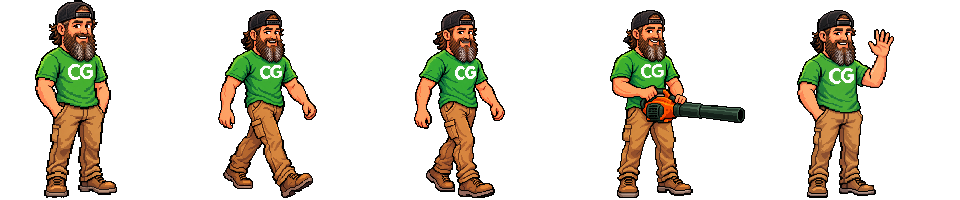
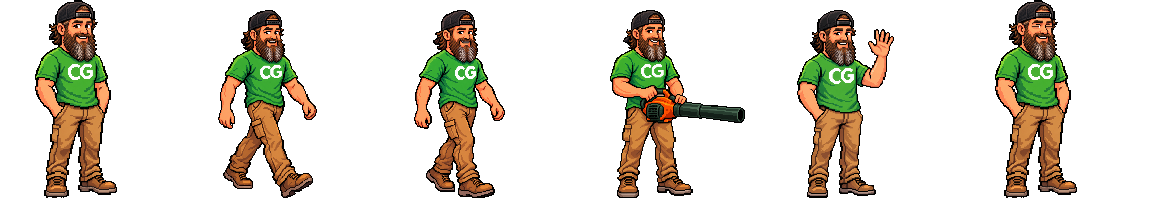
Refine Chris idle motion and build fuller leaf piles

diff --git a/index.html b/index.html
@@ -167,26 +167,28 @@
   .pet-body { display: block; position: relative; width: 100%; height: 100%; transform-origin: 50% 91%; }
   .pet-wrap.face-left .pet-body { scale: -1 1; }
   .pet-inner { display: block; width: 100%; height: 100%; transform-origin: 50% 91%; animation: pet-breathe 2.8s ease-in-out infinite; }
-  /* Five connected limb poses: idle, two opposite strides, blower, wave.
+  /* Six connected poses: idle, two rightward walk frames, blower, wave, blink.
      The art is larger than the hit area so the blower can extend past Chris. */
   .pet-visual { position: absolute; left: -34px; top: 0; width: 192px; height: 200px;
     transform: scale(var(--sprite-scale)); transform-origin: 34px 0; pointer-events: none; }
   .pet-sprite { display: block; width: 192px; height: 200px;
-    background: url("media/pet-chris-poses.png") 0 0 / 960px 200px no-repeat;
+    background: url("media/pet-chris-poses.png") 0 0 / 1152px 200px no-repeat;
     image-rendering: pixelated; pointer-events: none; }
   .pet-wrap.walking .pet-inner { animation: pet-walk .34s ease-in-out infinite alternate; }
   .pet-wrap.reacting .pet-inner { animation: pet-wave .62s cubic-bezier(.2,.8,.2,1) both; }
   .pet-wrap.cheering .pet-inner { animation: pet-cheer .72s cubic-bezier(.2,.8,.2,1) both; }
   .pet-wrap.clearing .pet-inner { animation: pet-work .2s ease-in-out infinite alternate; }
   .pet-wrap.doze .pet-inner { animation: pet-doze 3.4s ease-in-out infinite; }
+  .pet-wrap.idle-shift .pet-inner { animation: pet-shift .95s ease-in-out both; }
   .pet-wrap.dragging .pet-inner { animation: none; transform: rotate(var(--drag-tilt, 0deg)) scale(1.04); }
   .pet-wrap.dragging .pet-shadow, .pet-wrap.cheering .pet-shadow { transform: scale(.65); opacity: .45; }
-  @keyframes pet-breathe { 0%,100% { transform: translateY(0) scale(1); } 50% { transform: translateY(-2px) scale(1.008,.992); } }
+  @keyframes pet-breathe { 0%,100% { transform: scale(1); } 50% { transform: scale(1.006,1.003); } }
+  @keyframes pet-shift { 0%,100% { transform: none; } 45% { transform: rotate(1.6deg) translateX(2px); } }
   @keyframes pet-walk { from { transform: translateY(0) rotate(-2.5deg) scale(1.02,.98); } to { transform: translateY(-5px) rotate(2.5deg) scale(.99,1.01); } }
   @keyframes pet-wave { 0% { transform: rotate(0) scale(1); } 28% { transform: translateY(-9px) rotate(-7deg) scale(1.06,.96); } 56% { transform: translateY(0) rotate(4deg) scale(.97,1.04); } 78% { transform: translateY(-3px) rotate(-2deg); } 100% { transform: none; } }
   @keyframes pet-cheer { 0%,100% { transform: none; } 35% { transform: translateY(-20px) rotate(-6deg) scale(1.04); } 65% { transform: translateY(-7px) rotate(5deg) scale(.98,1.02); } }
   @keyframes pet-work { from { transform: rotate(-1deg) translateX(-1px); } to { transform: rotate(1deg) translateX(1px); } }
-  @keyframes pet-doze { 0%,100% { transform: rotate(-3deg) translateY(2px) scale(1,.99); } 50% { transform: rotate(-3deg) translateY(4px) scale(1.01,.98); } }
+  @keyframes pet-doze { 0%,100% { transform: rotate(-1.5deg) scale(1); } 50% { transform: rotate(-1.5deg) scale(1.008,.995); } }
   .pet-particle { position: absolute; left: 55%; top: 18%; z-index: 2; pointer-events: none;
     color: var(--forest); font: 800 16px/1 "Fredoka", sans-serif;
     animation: pet-float 1.1s ease-out forwards; }
@@ -209,7 +211,8 @@
   @media (prefers-reduced-motion: reduce) {
     .pet-bubble, .pet-bubble.is-visible { transition: opacity .01s linear; transform: none; }
     .pet-inner, .pet-wrap.walking .pet-inner, .pet-wrap.reacting .pet-inner,
-    .pet-wrap.cheering .pet-inner, .pet-wrap.clearing .pet-inner, .pet-wrap.doze .pet-inner { animation: none; }
+    .pet-wrap.cheering .pet-inner, .pet-wrap.clearing .pet-inner, .pet-wrap.doze .pet-inner,
+    .pet-wrap.idle-shift .pet-inner { animation: none; }
     .pet-particle { display: none; }
   }
   .pet-bubble::after {
@@ -748,7 +751,7 @@
       var piles = new Map();
       catchers.forEach(function (el) { piles.set(el, []); });
       var rects = new Map();
-      var MAX_PILE = 7;
+      var MAX_PILE = 12, CLEAR_AT = 6;
       function rnd(a, b) { return a + Math.random() * (b - a); }
 
       // Leaves
@@ -761,7 +764,7 @@
         document.body.appendChild(layer);
         var colors = ['#e2702a', '#f2b134', '#b8431e', '#c95b18', '#d99a2b', '#a8551f'];
         var shape = '<svg viewBox="0 0 24 24"><path d="M12 2c4 3 7 7 7 11a7 7 0 0 1-14 0c0-4 3-8 7-11Z"/><path d="M12 6v16" stroke="rgba(0,0,0,.25)" stroke-width="1.2" fill="none"/></svg>';
-        var count = W < 700 ? 16 : 30;
+        var count = W < 700 ? 20 : 36;
         for (var i = 0; i < count; i++) {
           var el = document.createElement('div');
           el.className = 'leaf';
@@ -779,12 +782,12 @@
         l.state = 'fall';
         l.bx = rnd(0, W);
         l.y = anywhere ? rnd(-H * 0.3, H) : rnd(-120, -30);
-        l.vy = rnd(38, 80);
+        l.vy = rnd(48, 88);
         l.phase = rnd(0, 6.28);
         l.sway = rnd(12, 34);
         l.rot = rnd(0, 360);
         l.spin = rnd(-90, 90);
-        l.sticky = Math.random() < 0.6;
+        l.sticky = Math.random() < 0.82;
         l.opacity = 1;
         l.el.style.opacity = 1;
         l.host = null;
@@ -807,7 +810,8 @@
       var wrap = null, pet = null, bubble = null, sprite = null, displayedFrame = -1;
       var p = { x: 4, y: H, state: 'idle', t: 0, cooldown: 5, target: null, face: 1, speed: 0,
         dragX: 0, dragY: 0, vx: 0, vy: 0, lastPointerX: 0, lastPointerY: 0 };
-      var pointer = null, reactionTimer = null, idleAt = performance.now(), nextFidget = idleAt + rnd(6500, 11000);
+      var pointer = null, reactionTimer = null, idleAt = performance.now();
+      var nextFidget = idleAt + rnd(11000, 18000), nextBlink = idleAt + rnd(2800, 5800), blinkUntil = 0;
       var lines = [
         'Hi neighbor! I keep the leaves off the buttons around here.',
         'Snow removal starts at $30 a visit. Just saying.',
@@ -896,7 +900,7 @@
       function react(cls, duration) {
         if (!wrap || reduceMotion) return;
         clearTimeout(reactionTimer);
-        wrap.classList.remove('reacting', 'cheering');
+        wrap.classList.remove('reacting', 'cheering', 'idle-shift');
         void wrap.offsetWidth;
         wrap.classList.add(cls);
         reactionTimer = setTimeout(function () { if (wrap) wrap.classList.remove(cls); }, duration);
@@ -917,7 +921,7 @@
       function wake() {
         idleAt = performance.now();
         if (p.state !== 'doze') return;
-        p.state = 'idle'; nextFidget = idleAt + rnd(5000, 9000);
+        p.state = 'idle'; nextFidget = idleAt + rnd(10000, 16000);
         react('reacting', 650);
       }
       ['pointerdown', 'keydown', 'scroll'].forEach(function (name) {
@@ -954,6 +958,14 @@
         if (gx < 8) { gx = r.right - 30; face = -1; }
         return { x: Math.min(Math.max(gx, 0), W - PET_W), y: r.bottom - PET_H + 2, face: face };
       }
+      function readyPile() {
+        var chosen = null, biggest = CLEAR_AT - 1;
+        catchers.forEach(function (el) {
+          var count = piles.get(el).length;
+          if (count > biggest && visible(rects.get(el))) { chosen = el; biggest = count; }
+        });
+        return chosen;
+      }
 
       var last = performance.now();
       function frame(now) {
@@ -978,11 +990,13 @@
               for (var j = 0; j < catchers.length; j++) {
                 var c = catchers[j], r = rects.get(c), pile = piles.get(c);
                 if (!r || pile.length >= MAX_PILE) continue;
-                if (bottom >= r.top && bottom <= r.top + 10 && cx > r.left + 10 && cx < r.right - 10) {
+                if (bottom >= r.top && bottom <= r.top + 10 && cx > r.left - 18 && cx < r.right + 18) {
                   l.state = 'land';
                   l.host = c;
-                  l.ox = cx - r.left;
-                  l.lift = pile.length * 2.5 + rnd(0, 2);
+                  // Gather toward the middle and stack in a low mound, not a flat row.
+                  l.ox = Math.max(12, Math.min(r.width - 12,
+                    r.width / 2 + (cx - r.left - r.width / 2) * .62));
+                  l.lift = Math.floor(pile.length / 3) * 5 + rnd(0, 3);
                   l.rot = rnd(-50, 50);
                   pile.push(l);
                   break;
@@ -1017,20 +1031,27 @@
           if (p.state === 'idle') {
             p.x = 4; p.y = hy; p.face = 1;
             p.cooldown -= dt;
-            if (!reduceMotion && !document.hidden && now > nextFidget && !bubble.classList.contains('is-visible')) {
-              if (Math.random() < .48) react('reacting', 650);
-              else particle('♪');
-              nextFidget = now + rnd(7000, 13000);
+            if (!reduceMotion && !document.hidden && now > nextBlink) {
+              blinkUntil = now + 105;
+              nextBlink = now + rnd(3200, 7200);
             }
-            if (now - idleAt > 32000) { p.state = 'doze'; p.t = 0; }
+            if (!reduceMotion && !document.hidden && now > nextFidget && !bubble.classList.contains('is-visible')) {
+              react(Math.random() < .22 ? 'reacting' : 'idle-shift', 950);
+              nextFidget = now + rnd(11000, 19000);
+            }
+            if (now - idleAt > 45000) { p.state = 'doze'; p.t = 0; }
             if (p.cooldown <= 0 && !reduceMotion) {
-              for (var k = 0; k < catchers.length; k++) {
-                if (piles.get(catchers[k]).length >= 3 && visible(rects.get(catchers[k]))) {
-                  p.target = catchers[k]; p.state = 'walk'; p.t = 0;
-                  wake();
-                  break;
-                }
+              var ready = readyPile();
+              if (ready) {
+                p.target = ready; p.state = 'walk'; p.t = 0;
+                idleAt = now;
               }
+            }
+          } else if (p.state === 'doze') {
+            // A full pile wakes Chris even when the visitor has not touched the page.
+            var fullPile = readyPile();
+            if (fullPile && !reduceMotion) {
+              p.target = fullPile; p.state = 'walk'; p.t = 0; idleAt = now;
             }
           } else if (p.state === 'walk') {
             var tr = rects.get(p.target);
@@ -1064,7 +1085,8 @@
           } else if (p.state === 'home') {
             if (moveToward(4, hy, dt, 380)) {
               p.state = 'idle'; p.cooldown = 5; p.face = 1;
-              nextFidget = now + rnd(5000, 8000);
+              nextFidget = now + rnd(10000, 16000);
+              nextBlink = now + rnd(2600, 5200);
             }
           }
           wrap.classList.toggle('walking', p.state === 'walk' || p.state === 'home');
@@ -1078,6 +1100,7 @@
           if (p.state === 'walk' || p.state === 'home') pose = Math.floor(now / 155) % 2 ? 1 : 2;
           else if (p.state === 'clear' && p.t > .4) pose = 3;
           else if (wrap.classList.contains('reacting') || wrap.classList.contains('cheering')) pose = 4;
+          else if (p.state === 'idle' && now < blinkUntil && !reduceMotion) pose = 5;
           if (pose !== displayedFrame) {
             sprite.style.backgroundPosition = (-pose * 192) + 'px 0';
             displayedFrame = pose;

diff --git a/pet/add-blink-frame.py b/pet/add-blink-frame.py
@@ -1,0 +1,28 @@
+"""Append a blink frame to the five-pose Chris sprite sheet.
+
+Run from the repository root after rebuilding the five-pose sheet.
+The eyelids change only a few pixels; all other idle artwork is preserved.
+"""
+from PIL import Image
+
+sheet_path = "media/pet-chris-poses.png"
+sheet = Image.open(sheet_path).convert("RGBA")
+assert sheet.size in ((960, 200), (1152, 200))
+idle = sheet.crop((0, 0, 192, 200))
+blink = idle.copy()
+
+# The original 84x198 idle art is placed at x=34 in the 192x200 pose frame.
+skin = (234, 140, 99, 255)
+skin_light = (251, 170, 116, 255)
+lid = (69, 35, 24, 255)
+for left, right in ((38, 44), (52, 57)):
+    for x in range(left, right + 1):
+        blink.putpixel((x + 34, 25), skin_light)
+        blink.putpixel((x + 34, 26), lid)
+        blink.putpixel((x + 34, 27), skin)
+
+out = Image.new("RGBA", (1152, 200))
+out.alpha_composite(sheet.crop((0, 0, 960, 200)))
+out.alpha_composite(blink, (960, 0))
+out.save(sheet_path, optimize=True)
+print("added blink frame 5 to", sheet_path)
